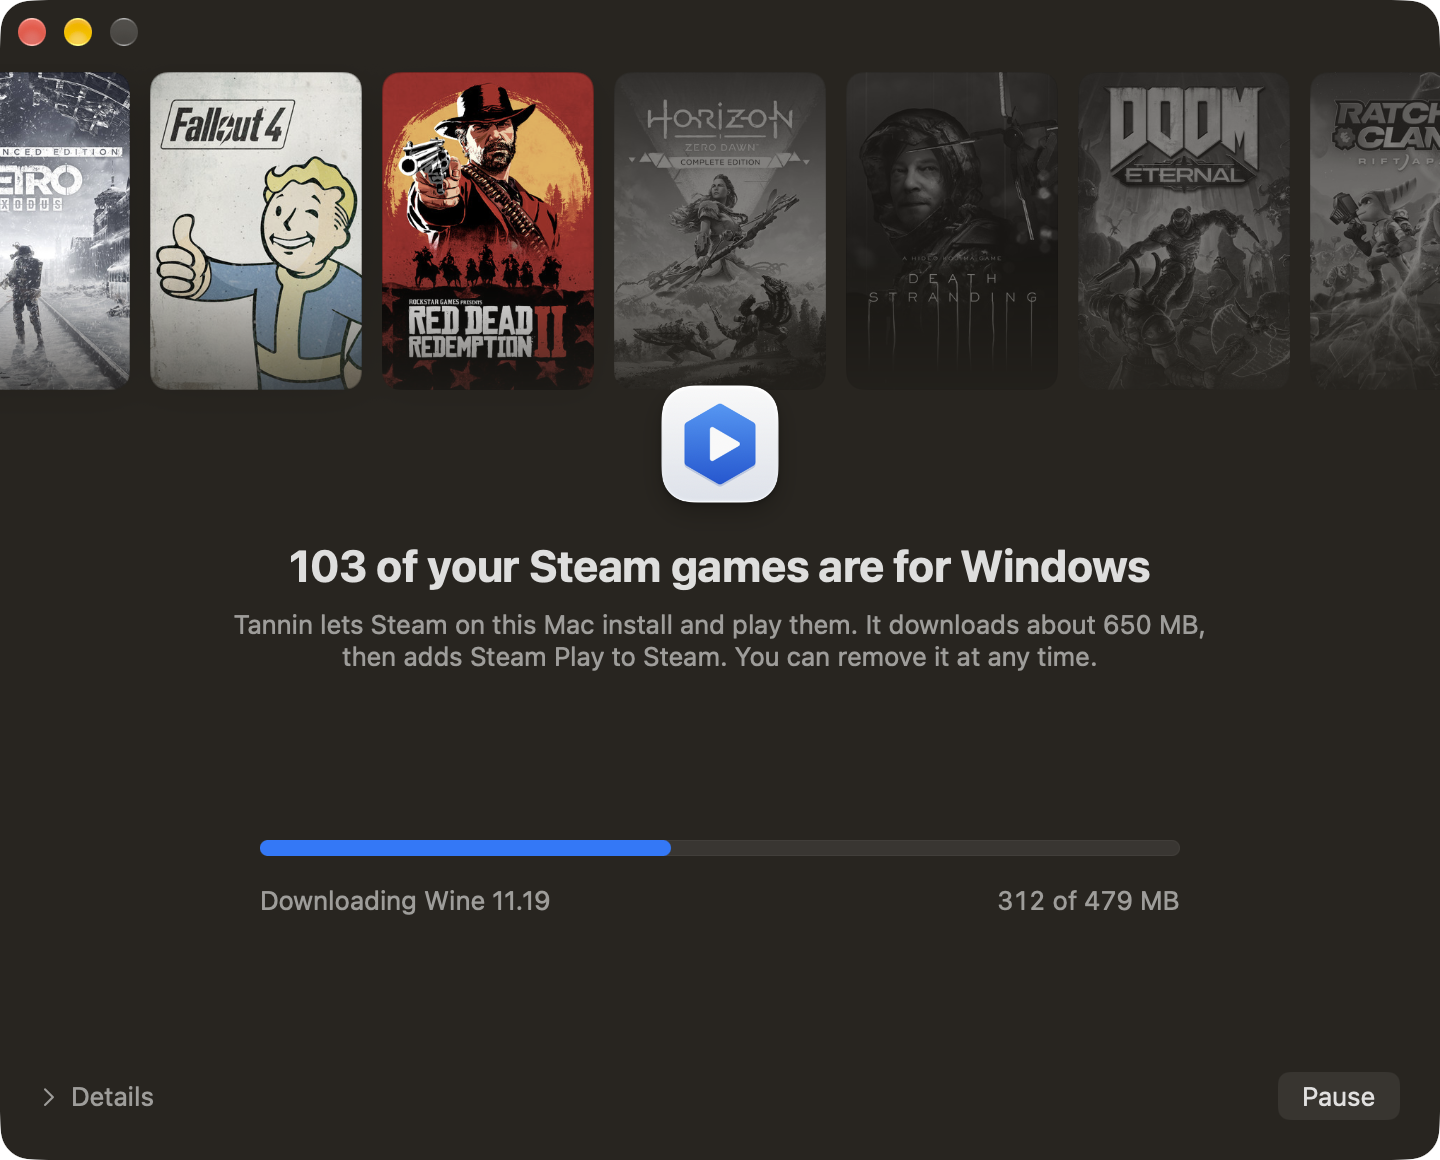
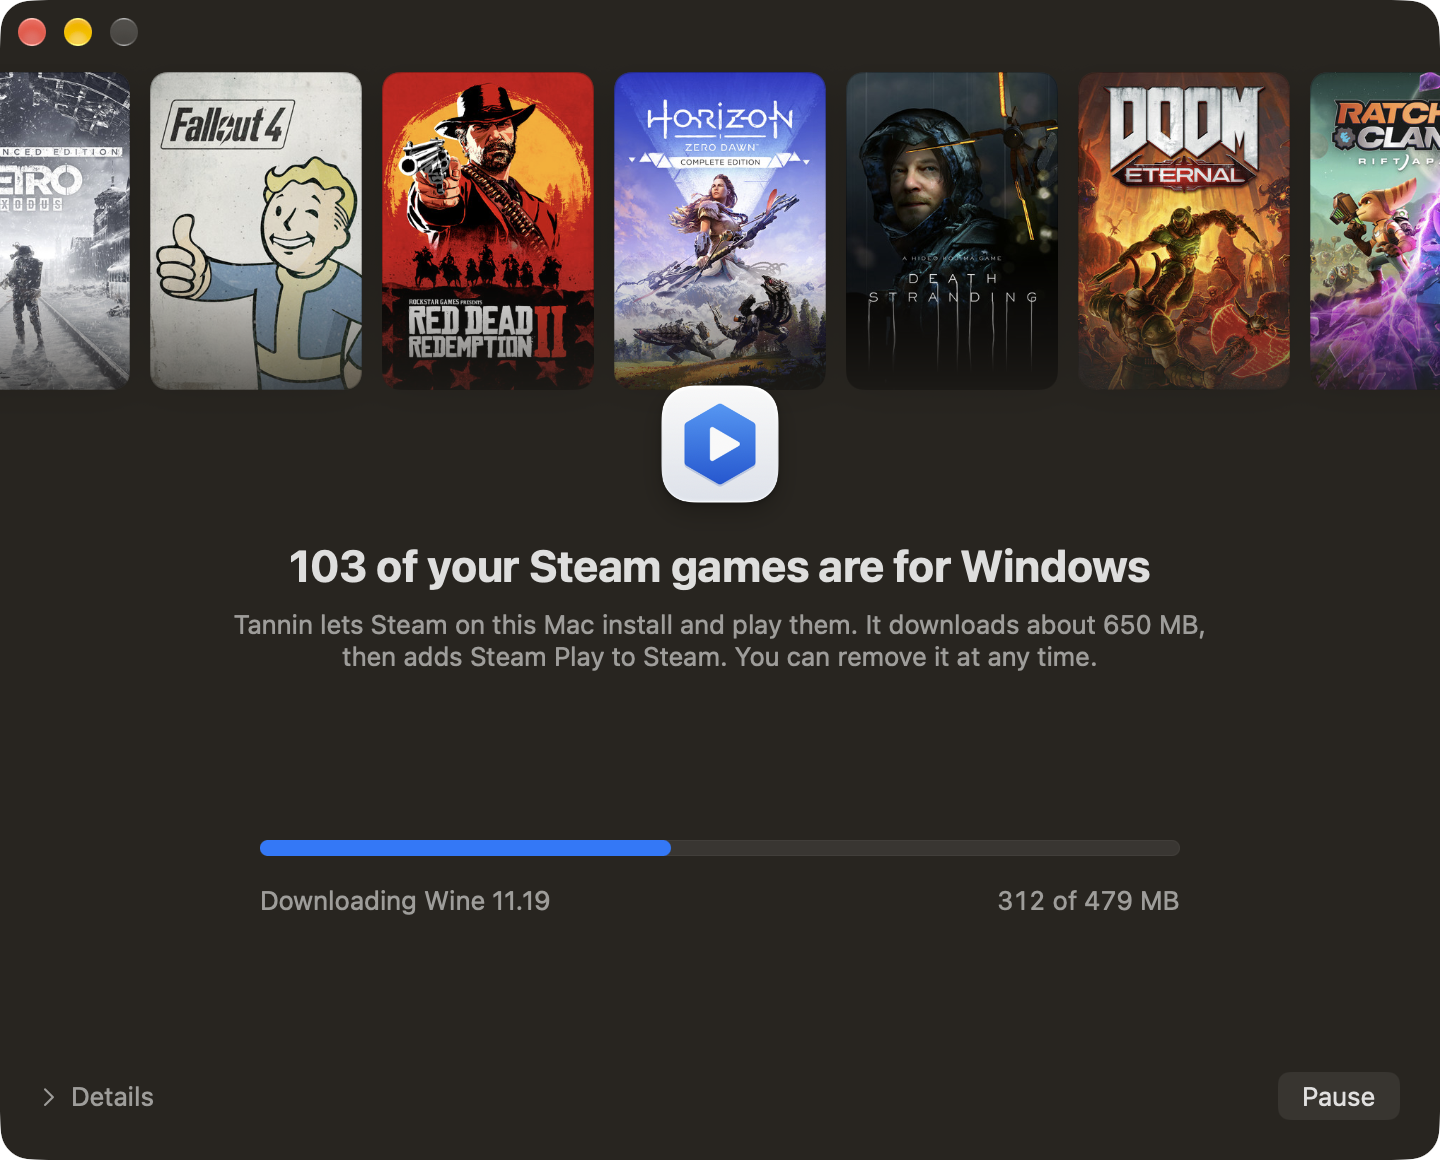
0.7.0: changelog, README, pictures and findings for the fixed setup covers
Claude-Session: https://claude.ai/code/session_016VVHjmvDeBvCfJ9GBQeFgj

Changed region(s): [[0.25, 0.0621, 0.7188, 0.3414], [0.75, 0.0621, 1.0, 0.3414], [0.625, 0.1862, 0.6875, 0.2483]]

diff --git a/Sources/TanninCore/InstallRecord.swift b/Sources/TanninCore/InstallRecord.swift
@@ -2,7 +2,7 @@ import Foundation
 
 /// The version of Tannin this code is. Kept equal to the `VERSION` file by a test.
 public enum TanninVersion {
-    public static let current = "0.6.0"
+    public static let current = "0.7.0"
 }
 
 /// What Tannin has installed and from which versions, written whenever it builds or changes those parts.

diff --git a/FINDINGS.md b/FINDINGS.md
@@ -751,3 +751,49 @@ Play…", the refusal by macOS with Open Settings, and the jump to the last scre
 prepared data. Rosetta being installed by the window (this Mac has it). A library too small for the band, on a
 real account. A second Mac.
 
+## 2026-11-19: the setup window's covers are fixed, and what the jank was (0.7.0)
+
+Tried from nothing on this Mac after 0.6.0, the setup window looked janky: "the cover art seems to pop into
+color, it was not smooth". The colour effect is gone, the row is the same seven covers for everyone, and the
+way it loads was picked from a live page of options (1D tinted tiles, 2B fade together) before it was built.
+
+- **Part of the jank was a bug.** Between two setup steps `AppModel.run` cleared the progress before the disk
+  had been read again, so for a moment the window showed what was there before the step: the Set Up button,
+  and the covers back to grey. Progress is now kept until the refresh is done. Resume and Try Again also start
+  from where the bar was.
+- **The seven** (`SetupArt`, core): Metro Exodus, Fallout 4, Red Dead Redemption 2, Horizon Zero Dawn, Death
+  Stranding, DOOM Eternal, Ratchet & Clank: Rift Apart. Each is looked for in Steam's library cache, then in
+  `~/Library/Caches/io.github.lantelyes.Tannin/SetupArt`, then fetched from
+  `shared.steamstatic.com/store_item_assets/steam/apps/<id>/library_600x900.jpg` (second source
+  `cdn.cloudflare.steamstatic.com/steam/apps/<id>/…`). All seven answered on 2026-11-19: 34 to 85 KB each,
+  about 450 KB together. They are not hash-pinned, by decision: a replaced cover is shown as it is. A fetched
+  file is kept only if it is under 2 MB and the system reads it as a picture between 100 and 4096 pixels each
+  way; curl is held to https.
+- **No artwork in the app.** Tannin holds three colours per cover (21 in all), taken once by reducing each
+  cover to two columns of three pixels and averaging the columns. If Valve replaces a cover, its tint is a
+  little off until a Tannin update.
+- **Nothing is fetched for a window nobody opened.** At launch only copies already on the Mac are read. The
+  fetch happens when the setup window appears, and again when Set Up is pressed if the pictures are still
+  missing. On a first run the local copies are read before the window is drawn, so they are there on its
+  first frame.
+- **Seen in the built app, against a home folder in the scratchpad with none of the seven in it** (a copy
+  with no update feed, so the Move to Applications question did not cover the window; the window was recorded
+  on its own with ScreenCaptureKit and read frame by frame):
+  - first open: the tinted tiles for about 0.3 s, then all seven pictures rising over the same frames for
+    about 0.33 s, every tile's values going one way only (no dip), nothing else moving;
+  - second open: the pictures in the first frame that shows the window, no tint;
+  - downloads sent to a dead proxy: the tinted tiles stay, nothing is left in the cache folder, the rest of
+    the window works;
+  - Reduce Motion (the launch argument `-reduceMotion YES` sets it for one process only; the Mac's own setting
+    was not touched): tint, then the pictures in one step;
+  - a whole real setup, the window photographed 1,029 times in a minute: the cover row identical in every
+    one, the window the same size throughout, and the Set Up button never back after it was pressed. Paused
+    at 102 of 175 MB in the Steam bridge; Resume carried on from there (111 MB a second later).
+- **The built tiles match the page.** Light: within a few levels of the page's colours. Dark: the same tile
+  over the real window, which is a little lighter and warmer (#29251F) than the page's (#1E1E1E).
+- 115 tests pass (nine new, for the seven, their colours, where they are looked for, and what a fetch keeps
+  and refuses).
+
+**Not done:** the fade was recorded in dark only, which is how this Mac is set; light was compared in still
+pictures. A first click on Pause did nothing; by the photographs' times it landed as the engine finished and was being
+unpacked, where Pause is dimmed, but that was not looked at more closely. Add Steam Play was not pressed. A second Mac.

diff --git a/README.md b/README.md
@@ -40,10 +40,10 @@
 <p align="center">
   <picture>
     <source media="(prefers-color-scheme: dark)" srcset="docs/screenshots/setup-dark.png">
-    <img src="docs/screenshots/setup-light.png" width="520" alt="The Set Up Tannin window: covers of Windows games across the top, some in colour, and the Wine engine downloading">
+    <img src="docs/screenshots/setup-light.png" width="520" alt="The Set Up Tannin window: seven game covers across the top, and the Wine engine downloading">
   </picture>
   <br>
-  <sub>Setup is one window. Your own Windows games run across the top and come into colour as it goes. The last step is the only one that changes Steam, and it asks first.</sub>
+  <sub>Setup is one window, with seven covers across the top. The last step is the only one that changes Steam, and it asks first.</sub>
 </p>
 
 | Engines & Renderers | Steam Play |
@@ -162,8 +162,10 @@ signed by Valve, and Tannin checks that signature first. Your games, saves and a
 | D3DMetal (optional) | Apple Game Porting Toolkit 4 | You download it from Apple; Tannin takes D3DMetal out of it and checks Apple's signature |
 | DXMT 0.80, DXVK 1.10.3 | [DXMT](https://github.com/3Shain/dxmt), [DXVK](https://github.com/doitsujin/dxvk) | Part of the Wine engine download |
 | Steam client files | Valve | Downloaded from Valve's servers, SHA-256 pinned |
+| The seven covers in the setup window | Valve's Steam servers | Fetched when the setup window first opens (about 450 KB), then kept on your Mac. Steam's own copy is used when it has one |
 
-Nothing is used before its hash has been checked.
+Nothing is used before its hash has been checked. The seven covers are the one exception: they are
+pictures, only ever shown, and a cover that Valve replaces is shown as it is now.
 
 ## Build it yourself
 
@@ -190,4 +192,5 @@ GPL-3.0. See [`LICENSE`](LICENSE) and [`NOTICE`](NOTICE), which credits the proj
 including [Sparkle](https://sparkle-project.org), which does the updating.
 
 Tannin is not affiliated with or endorsed by Valve, Apple or CodeWeavers. Steam is a trademark of
-Valve Corporation. Game artwork in the screenshots belongs to its publishers.
+Valve Corporation. Game artwork in the screenshots and in the setup window belongs to its publishers. None of it is
+part of Tannin or of this repository.

diff --git a/CHANGELOG.md b/CHANGELOG.md
@@ -3,6 +3,20 @@
 Every release, newest first, in plain words. `scripts/release.sh` refuses to make a release that
 has no section here, and the same text becomes the notes shown in the update window.
 
+## 0.7.0 (19 November 2026)
+
+- **The setup window shows the same seven covers for everyone,** in full colour from the start.
+  They no longer begin grey and turn to colour as setup goes: that change was not smooth, and it is
+  gone. Nothing in the row moves or changes while setup runs.
+- **The covers are fetched from Steam** the first time the setup window opens, about 450 KB, and kept
+  on your Mac afterwards. This is the one thing Tannin fetches before you press anything. While they
+  are on their way, each place holds its cover's colours; then all seven come in together. Offline,
+  the colours stay. With Reduce Motion on, the pictures appear without a fade.
+- **The window no longer flashes back to the Set Up button** between downloading the Wine engine and
+  the Steam bridge.
+- **Resume and Try Again start the bar where it stopped,** not from the beginning.
+- The setup window is the same size in every state, with or without Steam and with or without games.
+
 ## 0.6.0 (18 November 2026)
 
 - **Engines & Renderers**, a new page. The Wine engines and the three renderers are two lists that
